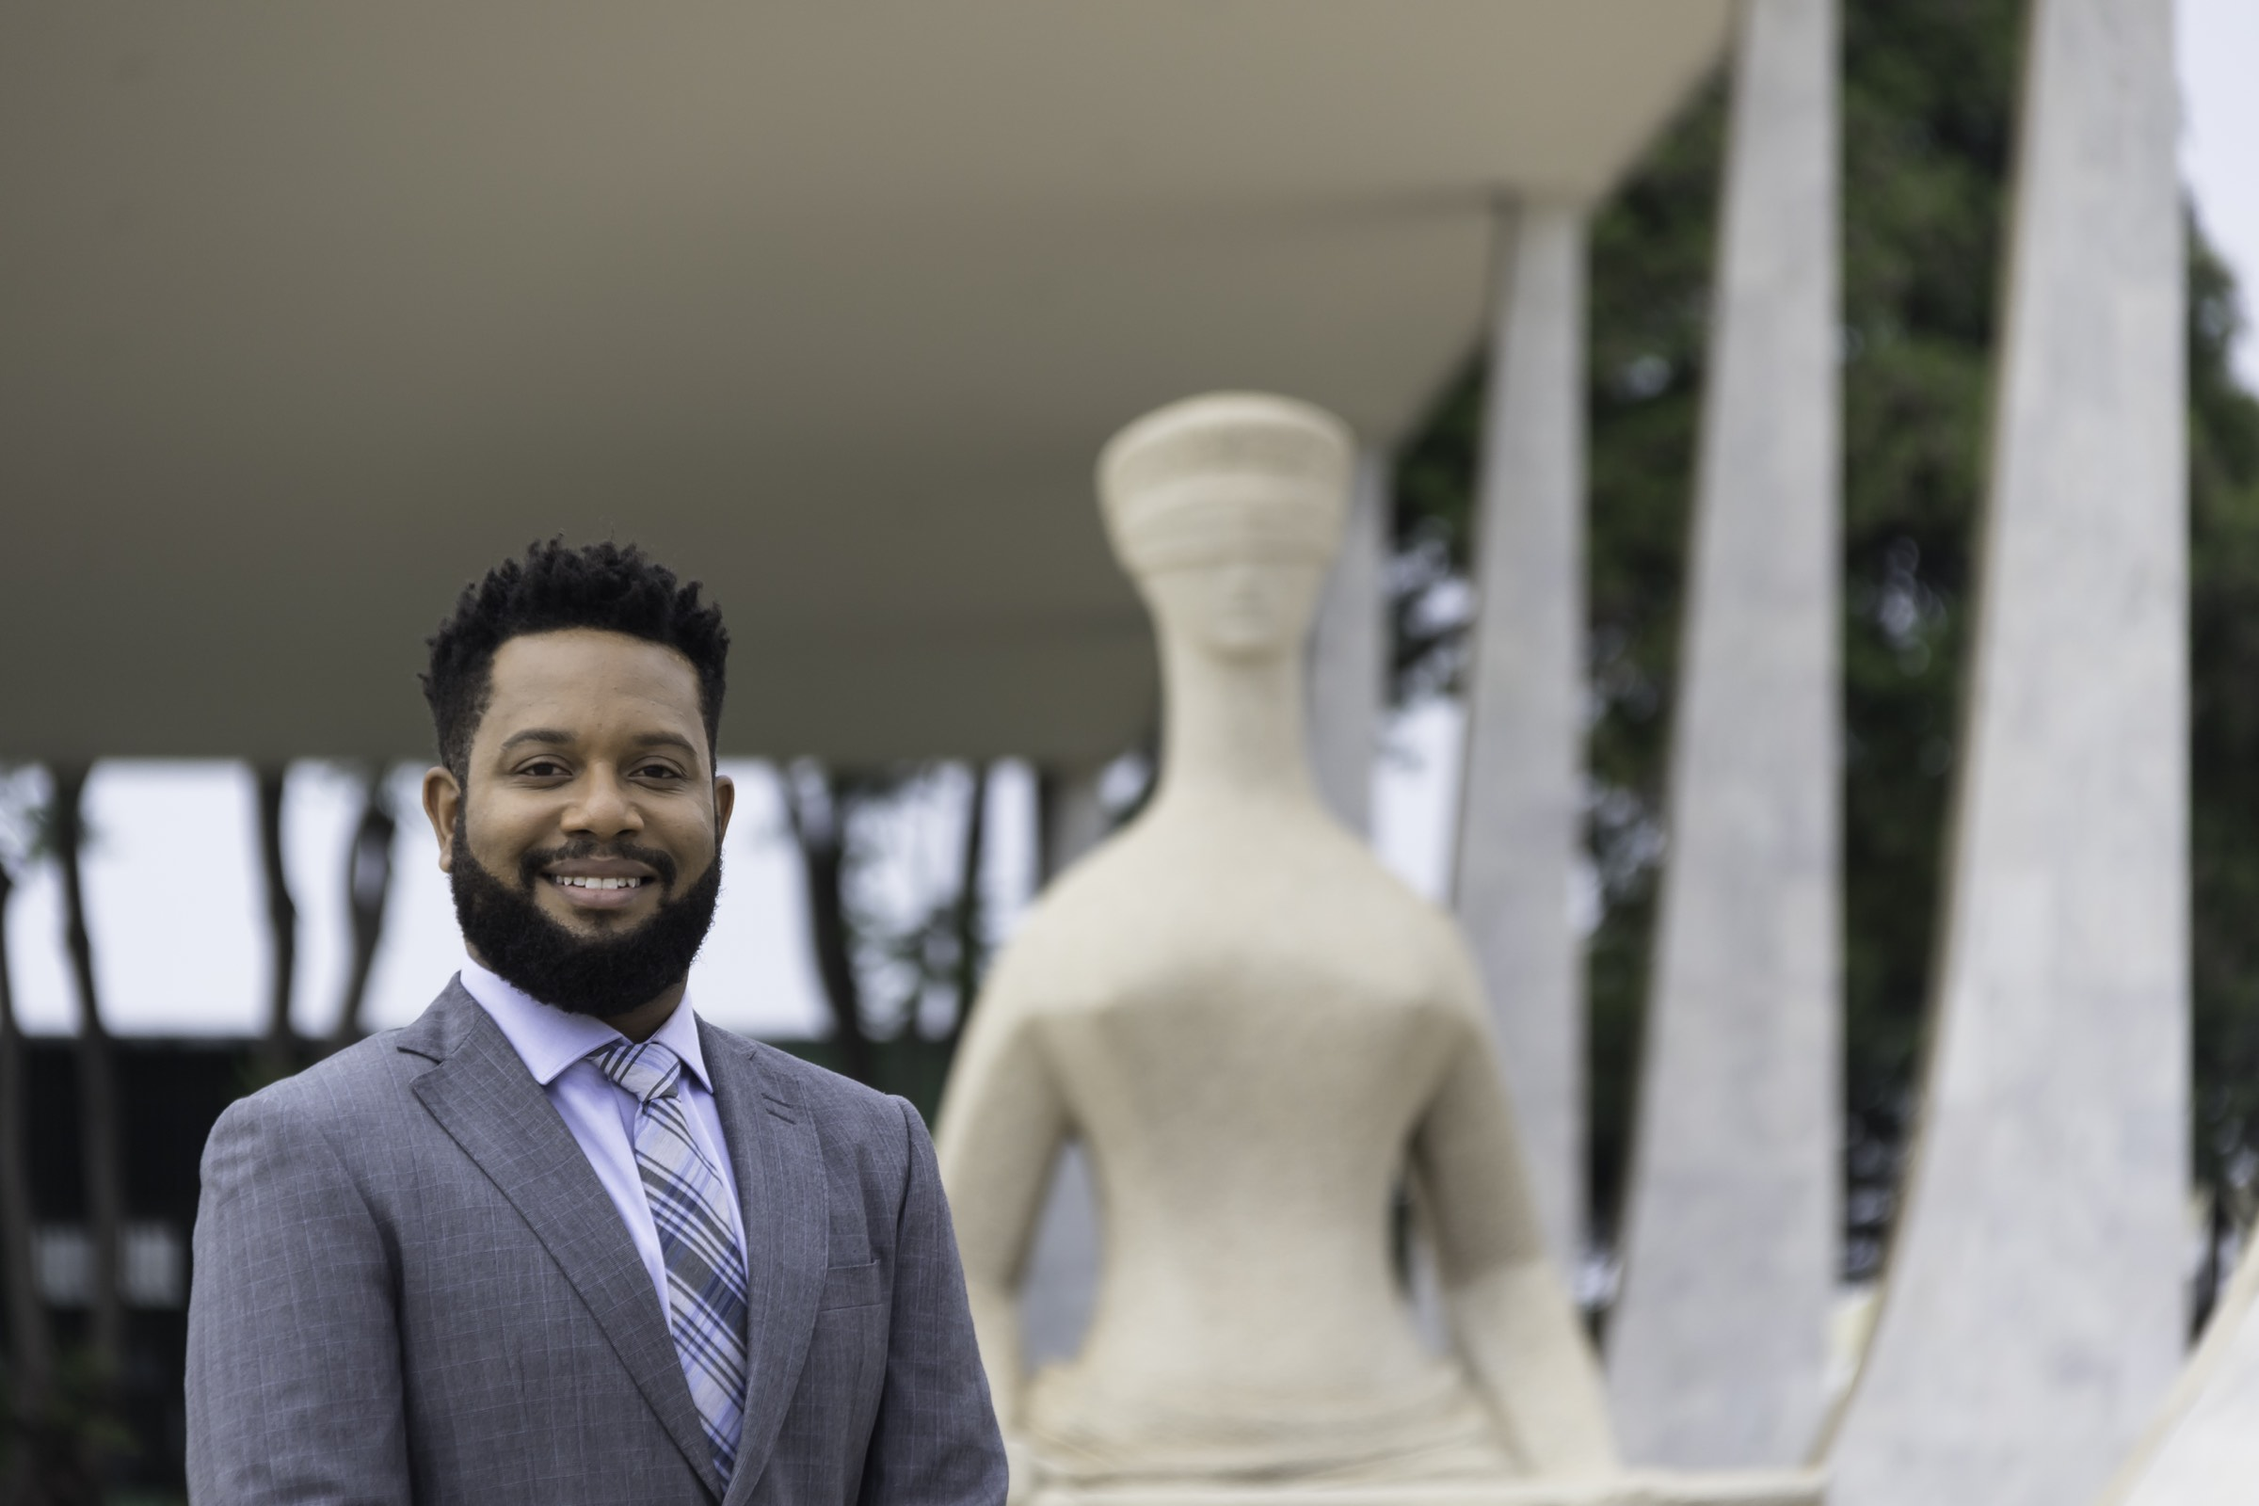
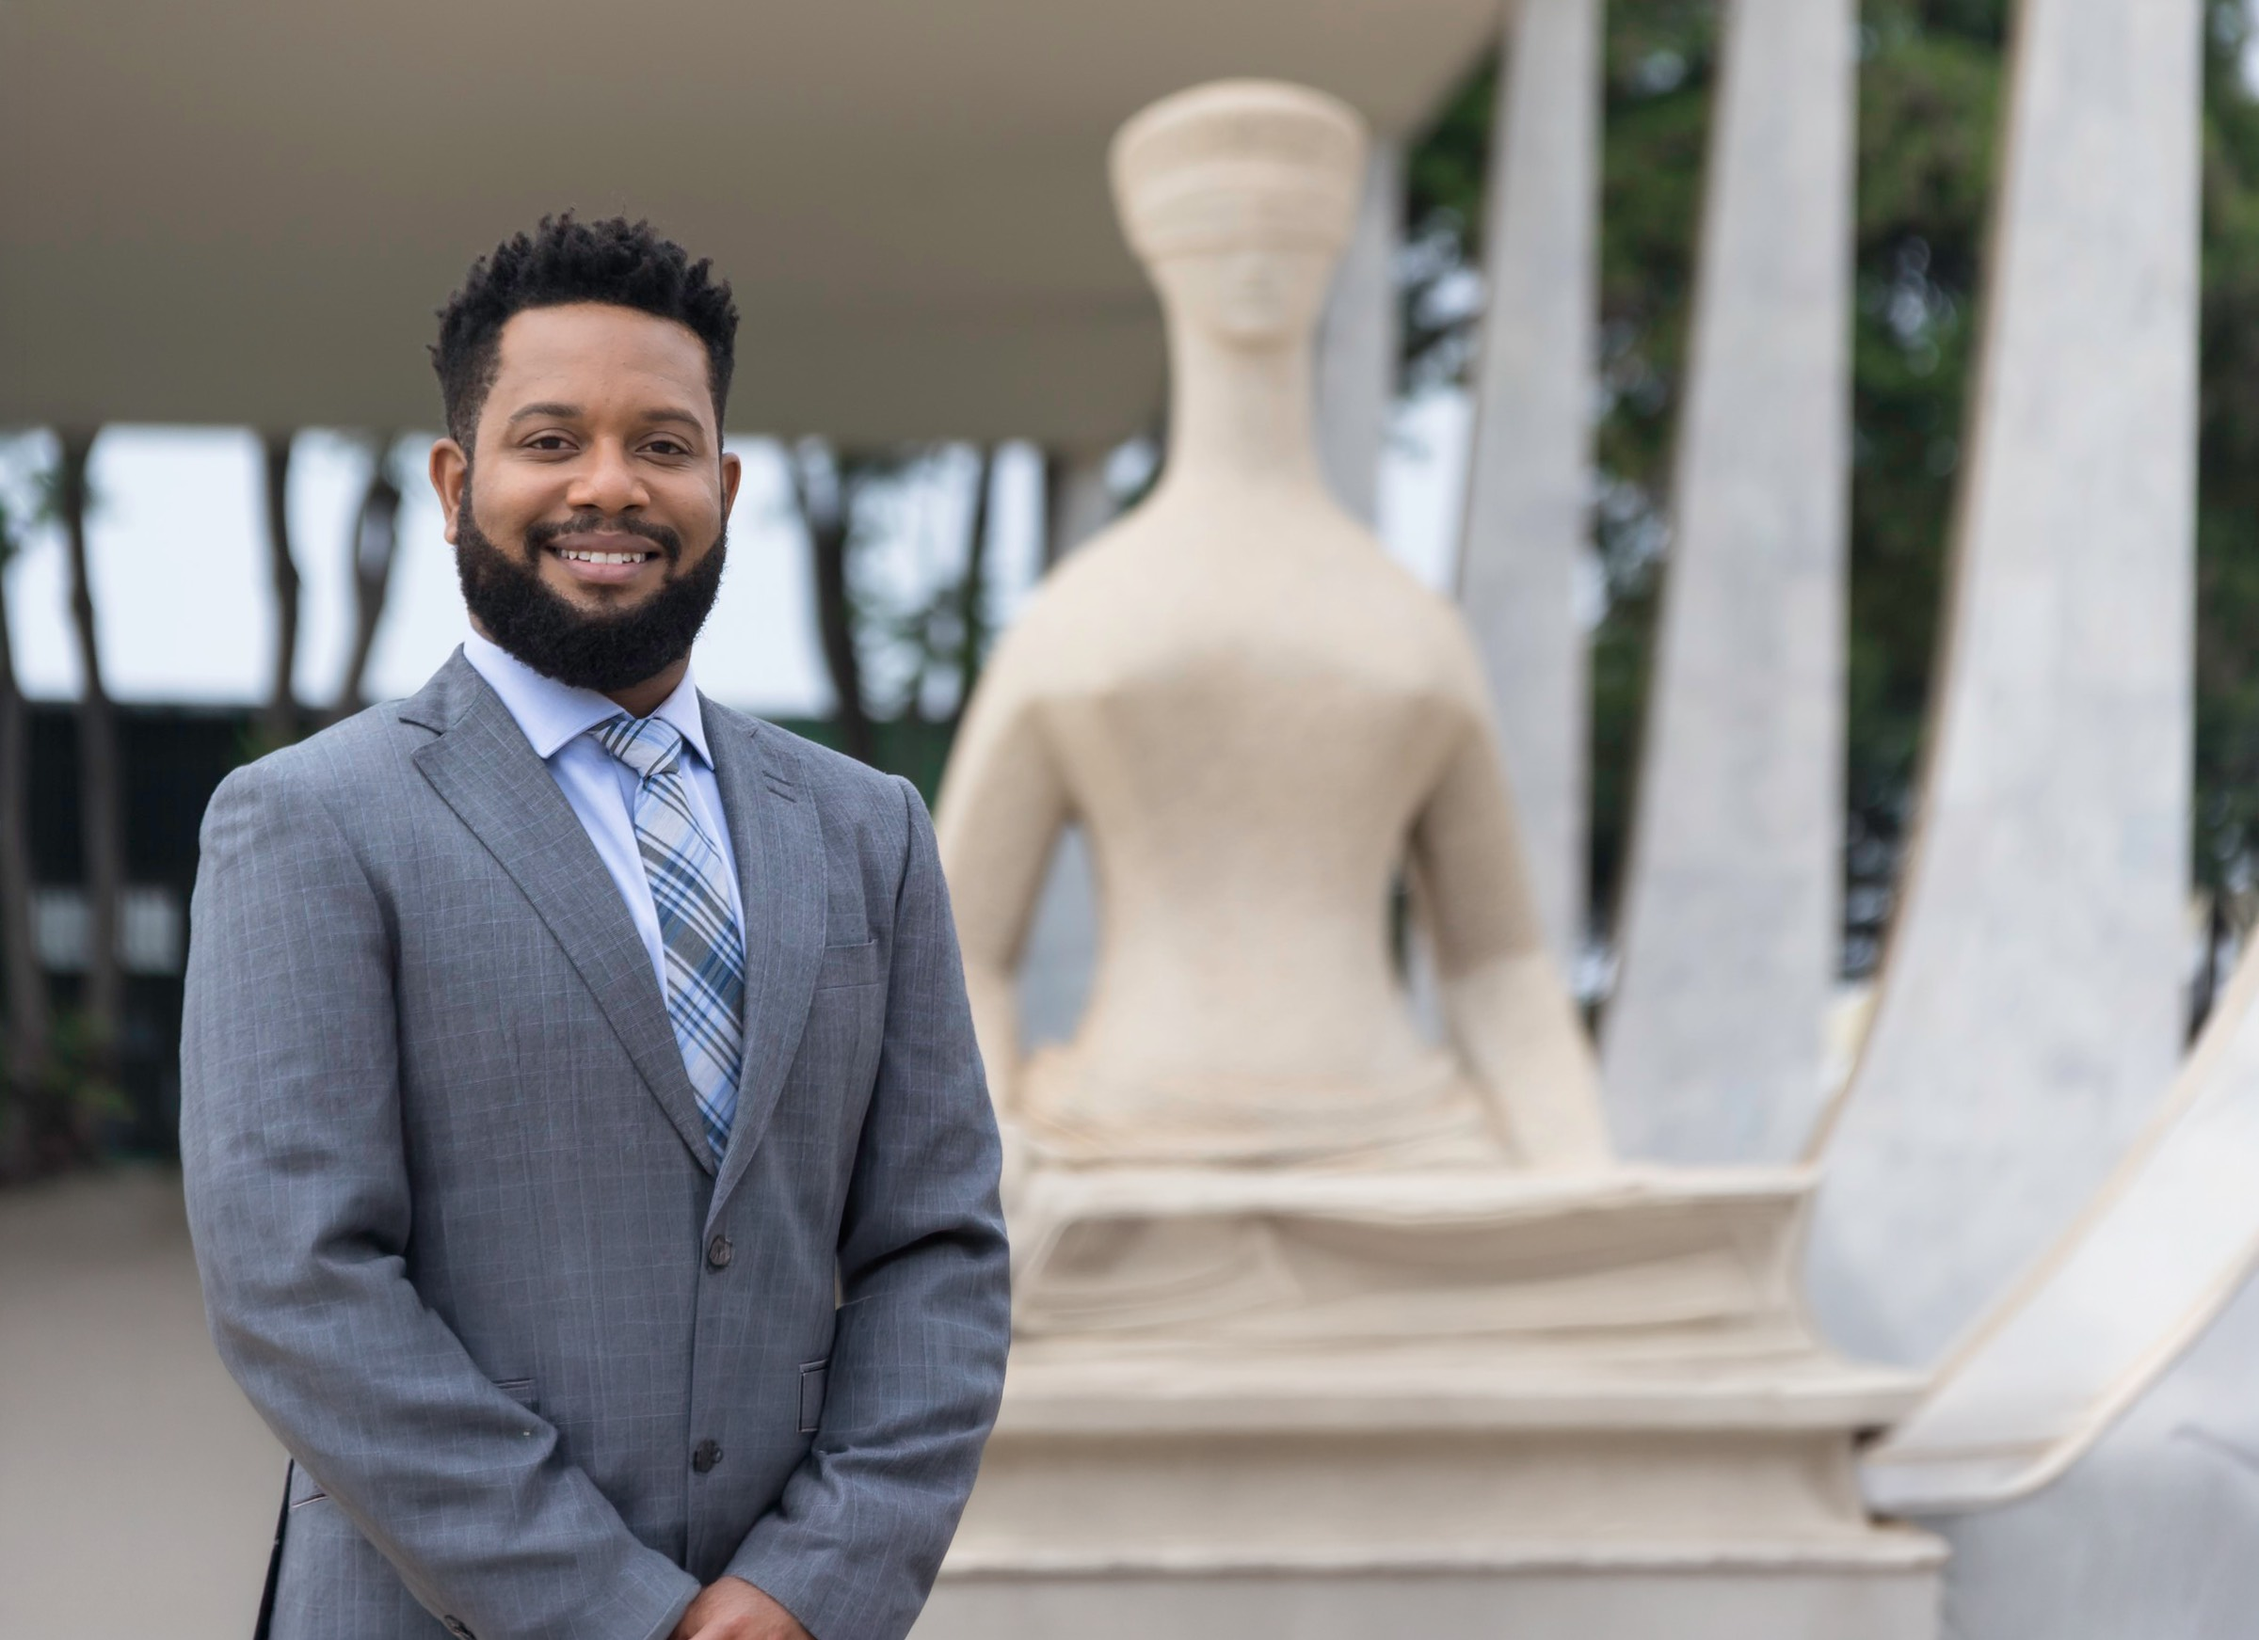
Capa com a foto do STF editada no Photoshop
Nova versão da foto (topo recortado e parte de baixo refeita) nas
imagens da capa para computador e celular e na imagem de
compartilhamento. Enquadramento ajustado ao novo corte.

diff --git a/assets/css/style.css b/assets/css/style.css
@@ -190,7 +190,7 @@ main { padding-top: var(--topo); background: var(--marinho-900); }
   color: var(--branco); background: var(--marinho-950);
 }
 .hero picture, .hero picture img { position: absolute; inset: 0; width: 100%; height: 100%; }
-.hero picture img { object-fit: cover; object-position: 30% 35%; z-index: -2; animation: aproxima 16s var(--curva) both; }
+.hero picture img { object-fit: cover; object-position: 30% 22%; z-index: -2; animation: aproxima 16s var(--curva) both; }
 .hero::after {
   content: ""; position: absolute; inset: 0; z-index: -1;
   background:
@@ -215,7 +215,7 @@ main { padding-top: var(--topo); background: var(--marinho-900); }
 @keyframes desce { 0% { transform: scaleY(0); transform-origin: top; } 50% { transform: scaleY(1); transform-origin: top; } 51% { transform-origin: bottom; } 100% { transform: scaleY(0); transform-origin: bottom; } }
 @media (max-width: 900px) {
   .hero picture { bottom: auto; height: 64%; }
-  .hero picture img { height: 100%; object-position: 58% 72%; }
+  .hero picture img { height: 100%; object-position: 46% 25%; }
   .hero::after { background: linear-gradient(180deg, rgba(6, 26, 44, 0.55) 0%, rgba(6, 26, 44, 0) 16%, rgba(6, 26, 44, 0) 40%, var(--marinho-950) 64%); }
   .hero h1 { font-size: clamp(2.5rem, 12.6vw, 4.6rem); white-space: nowrap; }
   .hero h1 .quebra { display: none; }
